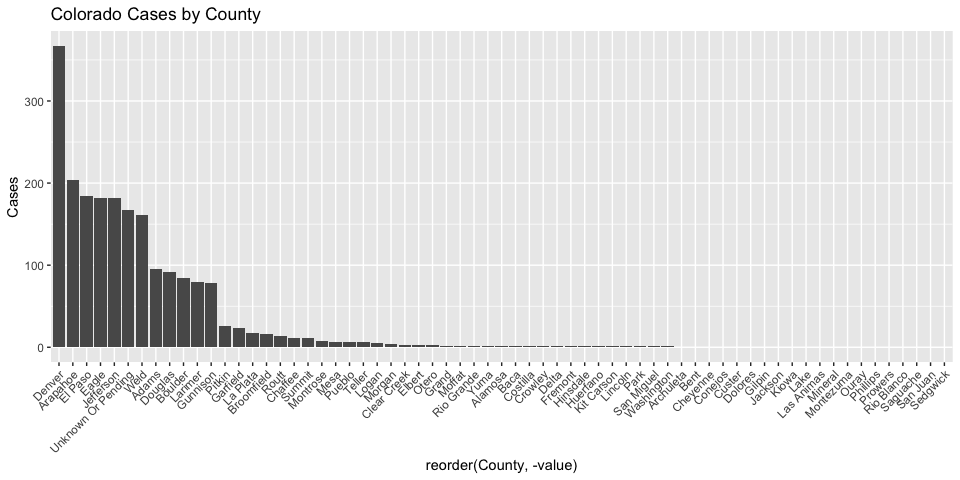
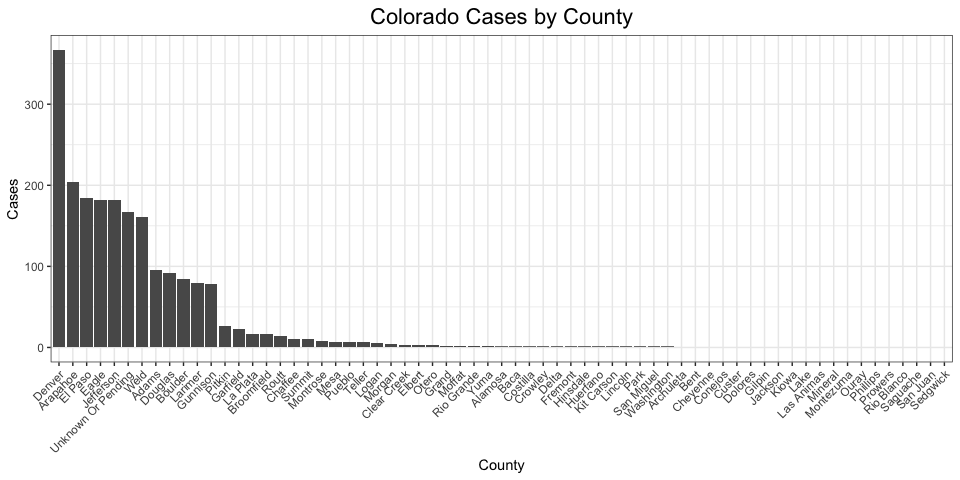
Update README badges
- update and improve badges
- add new Cases by Age barplot
- minor tweaks to plots; incl theme, axis labels, etc.

diff --git a/README.md b/README.md
@@ -3,16 +3,14 @@
 
 # Outbreak Summary
 
-![cases](https://img.shields.io/badge/Cases-2061-success.svg?style=flat&logo=appveyor)
-![tested](https://img.shields.io/badge/People_Tested-13276-success.svg?style=flat&logo=appveyor)
-![pct\_pos](https://img.shields.io/badge/Case_Rate-15.5%25-success.svg?style=flat&logo=appveyor)
-![deaths](https://img.shields.io/badge/Deaths-44-success.svg?style=flat&logo=appveyor)
-![counties](https://img.shields.io/badge/Counties-45-success.svg?style=flat&logo=appveyor)
-![hospitalization](https://img.shields.io/badge/Hospitalizations-274-success.svg?style=flat&logo=appveyor)
+![cases](https://img.shields.io/badge/Cases-2061-success.svg?style=flat-square&logo=appveyor)
+![tested](https://img.shields.io/badge/People_Tested-13276-success.svg?style=flat-square&logo=appveyor)
+![pct\_pos](https://img.shields.io/badge/Case_Rate-15.5%25-success.svg?style=flat-square&logo=appveyor)
+![deaths](https://img.shields.io/badge/Deaths-44-success.svg?style=flat-square&logo=appveyor)
+![counties](https://img.shields.io/badge/Counties-45-success.svg?style=flat-square&logo=appveyor)
+![hospitalization](https://img.shields.io/badge/Hospitalizations-274-success.svg?style=flat-square&logo=appveyor)
 
------
-
-# COVID-19 Pandemic - Colorado Edition
+# COVID-19 Pandemic - Colorado
 
 This page highlights the `COVID-19` cases in Colorado both through time
 and by county (CO has 64 counties).
@@ -21,7 +19,9 @@ Data is obtained from the Colorado Department of Public Health &
 Environment (CDPHE).
 
 See the `CDPHE` [website](https://covid19.colorado.gov/case-data) for
-more information.
+more information and raw case data.
+
+-----
 
 ## Cases by Sex
 
@@ -33,18 +33,15 @@ more information.
 
 ## Cases by Age
 
-| Sex     | Percent |
-| :------ | :------ |
-| 0-9     | 1.07%   |
-| 10-19   | 2.33%   |
-| 20-29   | 14.94%  |
-| 30-39   | 17.03%  |
-| 40-49   | 15.67%  |
-| 50-59   | 17.08%  |
-| 60-69   | 14.22%  |
-| 70-79   | 10.67%  |
-| 80+     | 6.55%   |
-| Unknown | 0.44%   |
+``` r
+dplyr::filter(data, description == "Case Counts by Age Group" & metric == "Percent") %>% 
+  dplyr::select(Age = attribute, Percent = value) %>%
+  ggplot(aes(x = Age, y = Percent)) +
+  geom_bar(stat = "identity") +
+  ggtitle("Case Proportion by Age")
+```
+
+![](README_files/figure-gfm/age_data-1.png)<!-- -->
 
 ## COVID-19 Cases by County
 
@@ -53,7 +50,7 @@ county_data %>%
   ggplot(aes(y = value, x = reorder(County, -value))) +
   geom_bar(stat = "identity") +
   theme(axis.text.x = element_text(angle = 45, hjust = 1)) +
-  labs(y = "Cases", title = "Colorado Cases by County")
+  labs(y = "Cases", title = "Colorado Cases by County", x = "County")
 ```
 
 ![](README_files/figure-gfm/county-1.png)<!-- -->
@@ -67,7 +64,7 @@ time_data %>%
   geom_smooth(method = "loess", se = FALSE) +
   ggplot2::scale_x_date(breaks = time_data$date) +
   theme(axis.text.x = element_text(angle = 45, hjust = 1)) +
-  labs(y = "Cases", title = "Colorado Cases by Date")
+  labs(y = "Cases", title = "Colorado Cases by Date", x = "")
 ```
 
 ![](README_files/figure-gfm/time-1.png)<!-- -->
